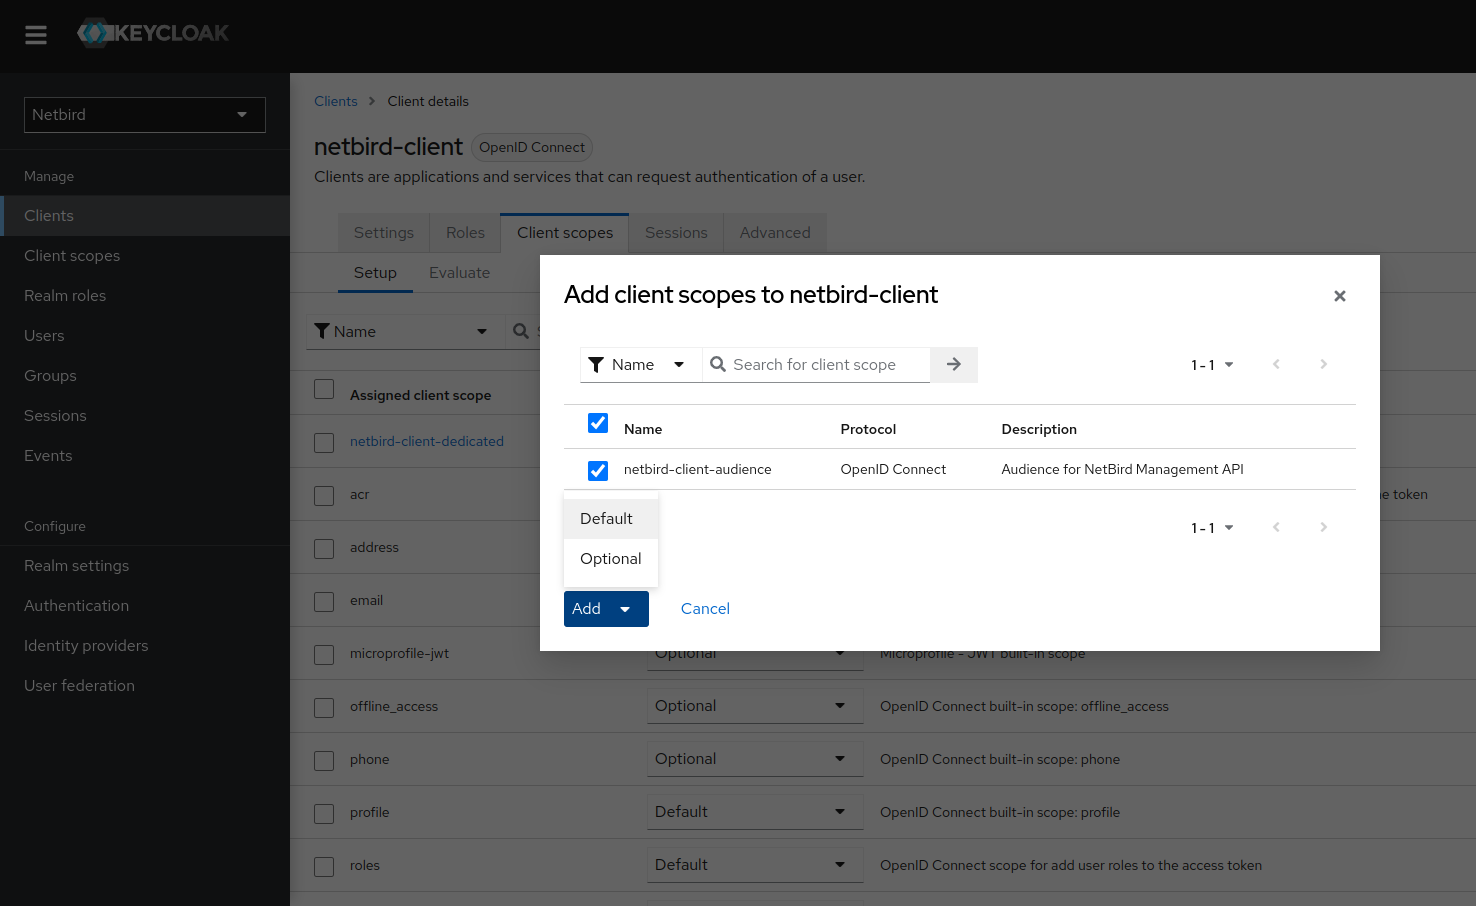
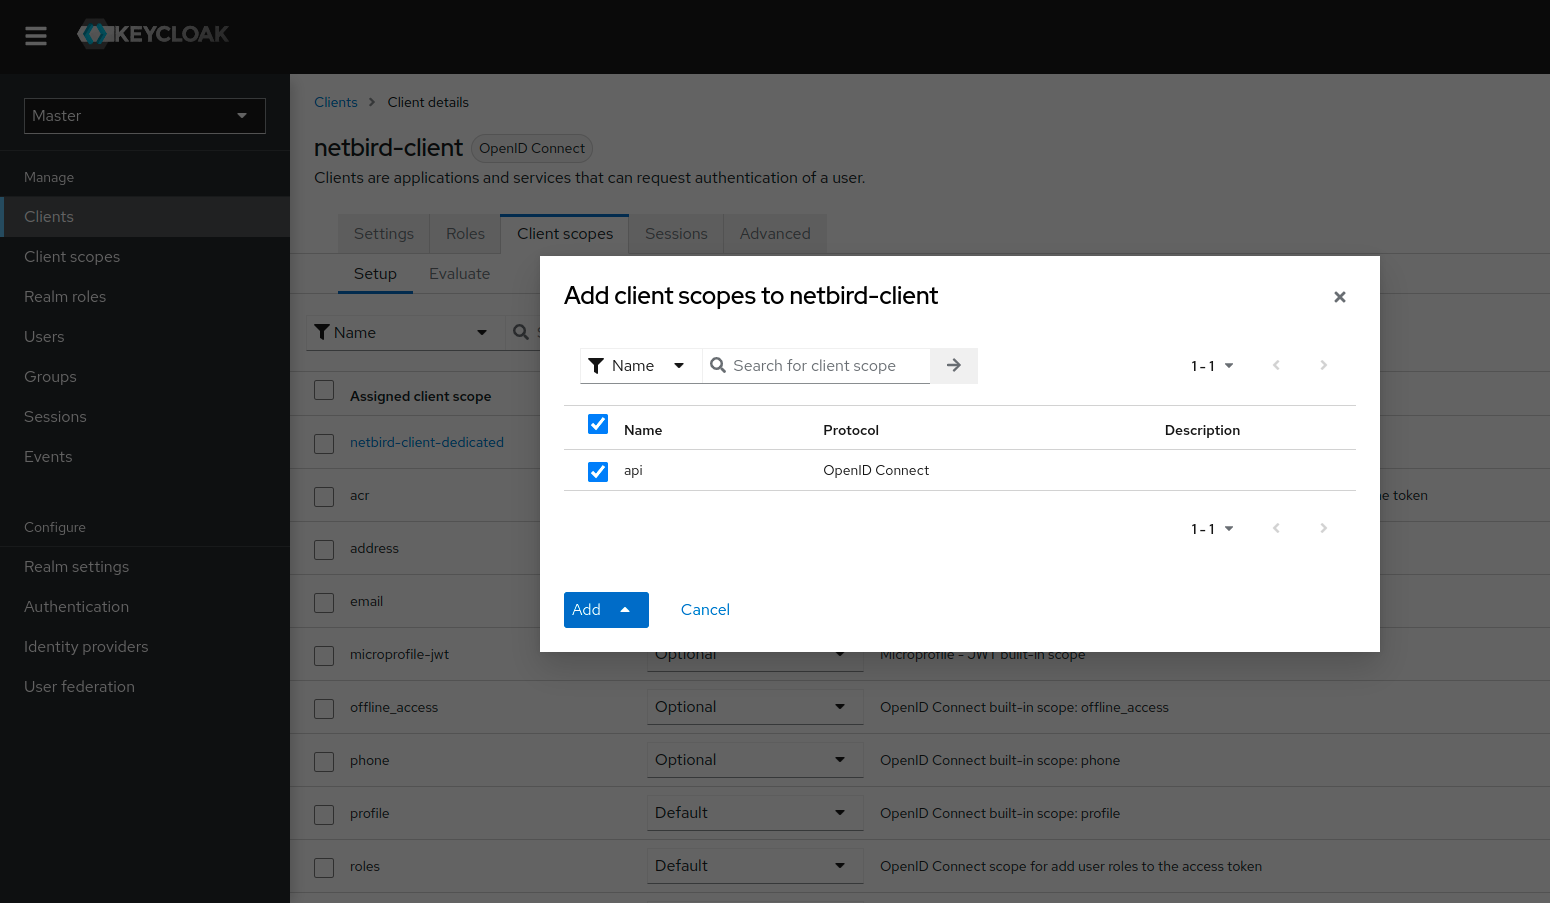
Updated Keycloak steps to have api scope

diff --git a/docs/integrations/identity-providers/self-hosted/keycloak.md b/docs/integrations/identity-providers/self-hosted/keycloak.md
@@ -115,7 +115,7 @@ In this step, we will create and configure the NetBird client audience for Keycl
 - Click `Client scopes` (left-hand menu)
 - Click `Create client scope` button
 - Fill in the form with the following values:
-  - Name: `netbird-client-audience`
+  - Name: `api`
   - Type: `Default`
   - Protocol: `OpenID Connect`
 - Click `Save`
@@ -144,7 +144,7 @@ In this step, we will create and configure the NetBird client audience for Keycl
 - Choose `netbird-client` from the list
 - Switch to `Client scopes` tab
 - Click `Add client scope` button
-- Choose `netbird-client-audience`
+- Choose `api`
 - CLick `Add` choosing `Default`
 - The value `netbird-client` will be used as audience 
 
